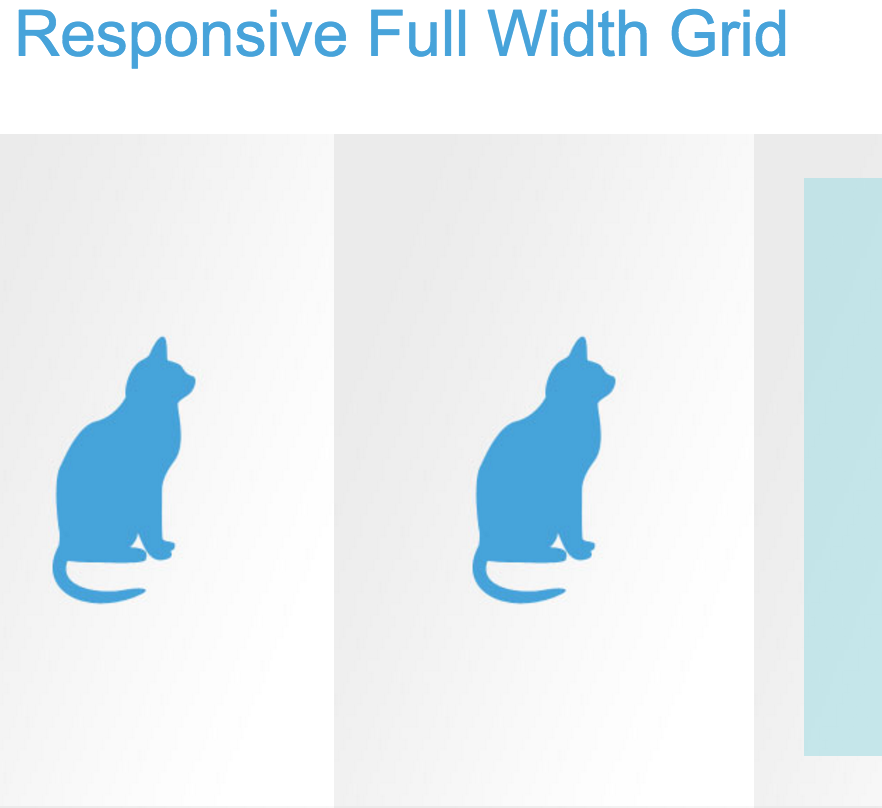
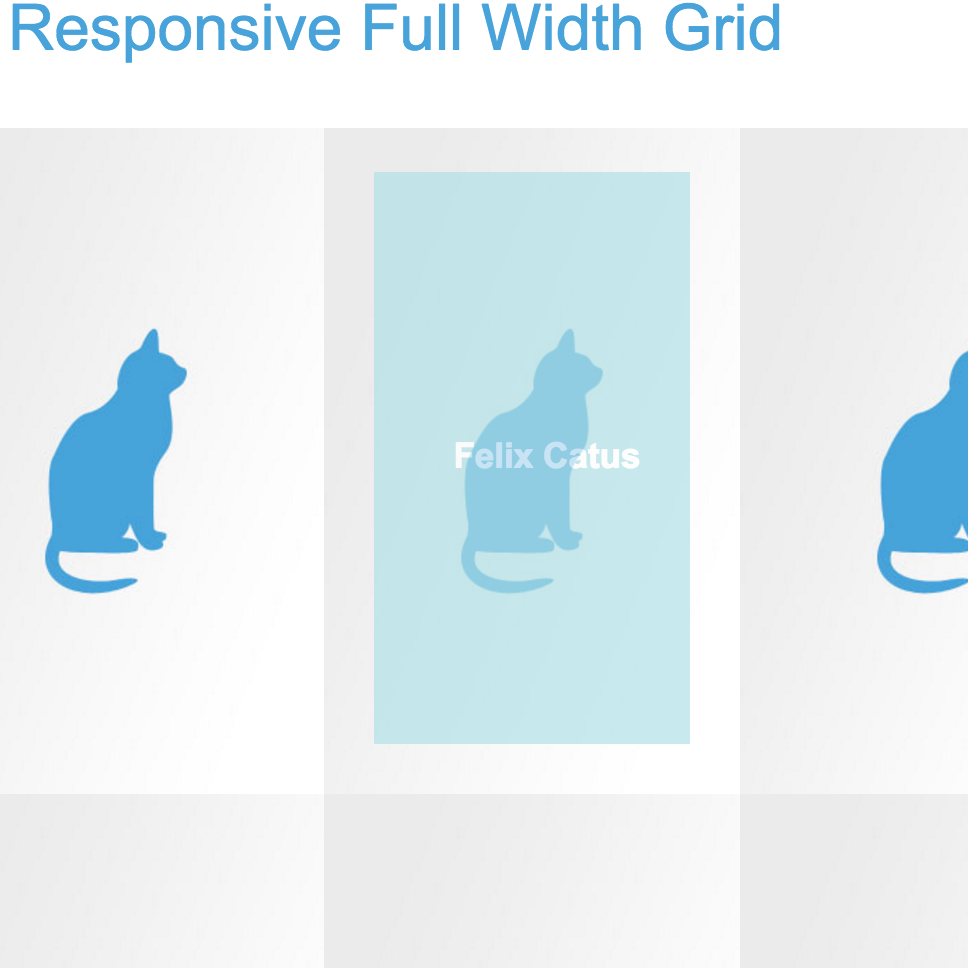
adding responsive in header and portf

diff --git a/src/scss/_portfolio.scss b/src/scss/_portfolio.scss
@@ -3,7 +3,65 @@
   margin-left: 10%;
   margin-right: 10%;
   @extend .clearfix;
+
+
+  .work{
+    margin-top: 2%;
+    border-bottom: 2px solid $green;
+    @extend .clearfix;
+  }
+  .portfolio .work:last-child{
+    border-bottom: 4px solid $green;
+  }
+  .text{
+    width: 100% * (2/3);
+    @extend .clearfix;
+  }
+  .project-title{
+    color: $green;
+    font-size: 1.5em;
+    font-weight: 300;
+  }
+  .project-exp{
+    color: $darkgreen;
+    font-weight: 300;
+    font-size: 16px;
+    width: 80%;
+    .links{
+      font-size: 1em;
+      text-decoration: none;
+      color: $green;
+    }
+    .links:hover{
+      color: $darkgreen;
+    }
+  }
+  .project-links{
+    color: $darkgreen;
+    a{
+      font-size: 1em;
+      font-weight: 200;
+      color: $green;
+      text-decoration: none;
+    }
+  }
+  .photo-proj{
+    //margin-top: -22%;
+    margin-bottom: 2%;
+    width: 100% * (1/3);
+    float: right;
+
+    img{
+    width: 70%;
+    margin-top: -70%;
+    //height: 200px;
+    //width: 75%;
+    border-radius: 20px;
+    }
+  }
 }
+
+//title for all sections
 .title-section{
   font-size: 3em;
   font-weight: 400;
@@ -13,55 +71,17 @@
   margin-right: 40%;
   margin-bottom: 7%;
 }
-.work{
-  margin-top: 2%;
-  border-bottom: 2px solid $green;
-  @extend .clearfix;;
-}
-.portfolio .work:last-child{
-  border-bottom: 4px solid $green;
 
-}
-.text{
-  width: 100% * (2/3);
-}
-.project-title{
-  color: $green;
-  font-size: 1.5em;
-  font-weight: 300;
-}
-.project-exp{
-  color: $darkgreen;
-  font-weight: 300;
-  font-size: 16px;
-  width: 80%;
-  .links{
-    font-size: 1em;
-    text-decoration: none;
-    color: $green;
-  }
-  .links:hover{
-    color: $darkgreen;
+@media (max-width: 1024px) and (min-width: 668px){      //TABLET
+.portfolio{
+  content: " ";
+  display: table;
+  clear: both;
+  .photo-proj{
+    img{
+      //margin-top:
+    }
   }
 }
-.project-links{
-  color: $darkgreen;
-  a{
-    font-size: 1em;
-    font-weight: 200;
-    color: $green;
-    text-decoration: none;
-  }
-}
-.photo-proj{
-  margin-top: -28%;
-  margin-bottom: 2%;
-  width: 100% * (1/3);
-  float: right;
 
-  img{
-  width: 300px;
-  height: 300px;
-  border-radius: 20px;
-  }
 }

diff --git a/src/index.html b/src/index.html
@@ -48,7 +48,7 @@
                 <br>
                 I like solving problems, clean code and I am very organized.
                 <br>
-                I like playing tennis and go to movies.
+                When I am not working, I like playing tennis and go to movies.
               </p>
               <a href="https://www.linkedin.com/in/rosalsm" target="_blank" class="fa fa-linkedin-square"></a>
               <a href="https://twitter.com/rosalsm3" target="_blank" class="fa fa-twitter-square"></a>
@@ -102,15 +102,16 @@
               <div class="text">
               <h4 class="project-title">Responsive Fullwidth</h4>
               <p class="project-exp">
-                This project was a one night homework assignment during my time at <a href="https://www.theironyard.com/" class="links">The Iron Yard</a>. We used the <a href="http://tympanus.net/codrops/category/blueprints/" class="links">Tympanus Blueprints</a> examples to
+                This project was a one night homework assignment at <a href="https://www.theironyard.com/" class="links">The Iron Yard</a>.
                 <br>
-                more
+                We used the <a href="http://tympanus.net/codrops/category/blueprints/" class="links">Tympanus Blueprints</a> examples to
                 <br>
-                more
+                build a responsive page and learn about CSS3, Sass and HTML5.
                 <br>
-                more
+                This is a very good example of how to make good grids.
                 <br>
-                more
+                I have good memories building this project, it was fun!
+                <br>
               </p>
               <p class="project-links">
                 <a href="https://rosalsm.github.io/TIY-Assignments/FULLWIDTH" target="_blank">VISIT PROJECT</a> | <a href="https://github.com/rosalsm/TIY-Assignments/tree/master/FULLWIDTH" target="_blank">VIEW CODE</a>
@@ -153,7 +154,7 @@
         <script src="/bower_components/angular/angular.js"></script>
         <script src="js/plugins.js"></script>
         <script src="js/main.js"></script>
-        
+
 
         <!-- Google Analytics: change UA-XXXXX-X to be your site's ID. -->
         <script>

diff --git a/src/scss/_header.scss b/src/scss/_header.scss
@@ -16,7 +16,7 @@ body{
     margin-left: 10%;
     width: 20%;
     font-size: 2em;
-    font-weight: 200;
+    font-weight: 300;
   }
   .fa-bars{
     display: none;
@@ -51,7 +51,7 @@ body{
     color: $white;
     font-size: 3em;
     margin-right: 5%;
-    margin-top: -8%;
+    margin-top: -11%;
   }
   .no-hamburger{
     display: none;
@@ -60,9 +60,9 @@ body{
     display: none;
   }
   .show-nav{
-    width: 60%;
+    width: 70%;
     float:right;
-    margin-top: -9%;
+    margin-top: -11%;
     a{
       text-decoration: none;
       color: $white;
@@ -72,6 +72,9 @@ body{
       font-weight: 200;
       font-size: 1.8em;
     }
+    a:last-child{
+      margin-right: 0;
+    }
     a:hover{
       color: $darkgreen;
     }
@@ -80,7 +83,7 @@ body{
 
 
 
-}
+}//END of TABLET
 
 
 @media (max-width: 667px) {           //MOBILE
@@ -105,28 +108,26 @@ body{
       display: none;
     }
     .show-nav{
-      width: 80%;
-      margin-left: 10%;
-      margin-right: 10%;
+      width: 100%;
+      //margin-left: 10%;
+      //margin-right: 10%;
       //float:right;
       margin-top: -7%;
       //display: block;
       a{
+        display: block;
         text-decoration: none;
         color: $white;
-        width: 50%;
-        margin-right: 10%;
-        margin-bottom: 5%;
         font-weight: 200;
         font-size: 1.8em;
-        // #portfolio, #contact{
-        //   float: right;
-        }
+        margin-left: 10%;
+        margin-right: 10%;
+        width: 80%;
+       }
       a:hover{
         color: $darkgreen;
       }
     }
   }
 
-
-}
+}//END of MOBILE

diff --git a/src/scss/_about.scss b/src/scss/_about.scss
@@ -18,16 +18,18 @@ h2{
   border-bottom: 4px solid $green;
   .r-photo{
     width: 100% * (1/3);
+    @extend .clearfix;
     .photo{
-      width: 100px;
-      height: 100px;
+      width: 50%;
       border-radius: 5%;
       margin-left: 20%;
+      margin-top: 10%;
+      //@extend .clearfix;
     }
   }
   .main-about{
     width: 100% * (2/3);
-    margin-top: -13%;
+    margin-top: -22%;
     margin-bottom: 2%;
     float: right;
     color: $green;
